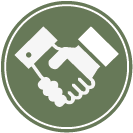
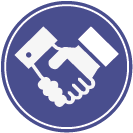
kek_rolunk

diff --git a/kappatrend/css/style.css b/kappatrend/css/style.css
@@ -252,7 +252,7 @@ features
     border-top: 0px;
     height: 3px;
     width: 40px;
-    background-color: #CFE0BE;
+    background-color: #8484b6;
 }
 .wrap-item h3 {
     font-size: 24px;
